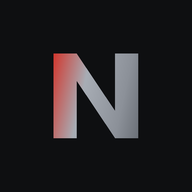
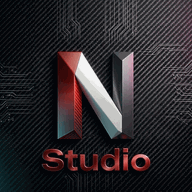
Gerçek Nizam Soft logosu (v0.2.1)
- Geçici SVG "N" çizimi kaldırıldı
- logo-n.png ve logo-full.png (şeffaf zeminli) eklendi
- Açılış: tam logo · Giriş ve yan menü: sadece N
- Telefon/masaüstü ikonları özgün kare logodan yeniden üretildi
- style.css logo ölçüleri, sw.js önbelleği ve sürüm etiketleri güncellendi

Claude-Session: https://claude.ai/code/session_01Ma4TDJqoGksF8R64DrZn4N

diff --git a/index.html b/index.html
@@ -17,29 +17,14 @@
 <link rel="preconnect" href="https://fonts.googleapis.com">
 <link rel="preconnect" href="https://fonts.gstatic.com" crossorigin>
 <link rel="stylesheet" href="https://fonts.googleapis.com/css2?family=Space+Grotesk:wght@500;600;700&family=IBM+Plex+Sans:wght@400;500;600&family=IBM+Plex+Mono:wght@400;500&display=swap">
-<link rel="stylesheet" href="style.css?v=0.2.0">
+<link rel="stylesheet" href="style.css?v=0.2.1">
 </head>
 <body>
-
-<!-- ===== Logo sembolü ===== -->
-<svg width="0" height="0" style="position:absolute" aria-hidden="true">
-  <defs>
-    <linearGradient id="ns-grad" x1="0" y1="0" x2="1" y2="1">
-      <stop offset="0" stop-color="#e5342a"></stop>
-      <stop offset=".55" stop-color="#8a8f96"></stop>
-      <stop offset="1" stop-color="#3a3f45"></stop>
-    </linearGradient>
-    <symbol id="ns-n" viewBox="0 0 32 32">
-      <path d="M5 27V5h6l10 15V5h6v22h-6L11 12v15z" fill="url(#ns-grad)"></path>
-    </symbol>
-  </defs>
-</svg>
 
 <!-- ===== Açılış ekranı ===== -->
 <div id="loader">
   <div class="loader-box">
-    <svg class="loader-logo" aria-hidden="true"><use href="#ns-n"></use></svg>
-    <div class="loader-name">NIZAM <span class="pipe">|</span> Studio</div>
+    <img class="loader-logo" src="logo-full.png?v=0.2.1" alt="NIZAM Studio" width="118" height="128">
     <div class="loader-sub">Nizam Soft</div>
     <div class="loader-track"><div class="loader-fill"></div></div>
     <div class="loader-msg">Hazırlanıyor…</div>
@@ -50,7 +35,7 @@
 <!-- ===== Giriş ekranı ===== -->
 <div id="login" class="hidden">
   <form class="login-card" id="login-form" autocomplete="on">
-    <svg class="login-logo" aria-hidden="true"><use href="#ns-n"></use></svg>
+    <img class="login-logo" src="logo-n.png?v=0.2.1" alt="" width="57" height="66">
     <h1>NIZAM <span class="pipe">|</span> Studio</h1>
     <p class="login-sub">Nizam Soft</p>
 
@@ -75,7 +60,7 @@
 
   <aside id="sidebar">
     <div class="brand">
-      <svg class="brand-logo" aria-hidden="true"><use href="#ns-n"></use></svg>
+      <img class="brand-logo" src="logo-n.png?v=0.2.1" alt="" width="24" height="28">
       <div class="brand-text">
         <div class="brand-name">NIZAM <span class="pipe">|</span> Studio</div>
         <div class="brand-sub">Nizam Soft</div>
@@ -164,8 +149,8 @@
 <div id="toast" class="hidden"></div>
 
 <script src="vendor/supabase.js?v=2.112.3"></script>
-<script src="config.js?v=0.2.0"></script>
-<script src="auth.js?v=0.2.0"></script>
-<script src="app.js?v=0.2.0"></script>
+<script src="config.js?v=0.2.1"></script>
+<script src="auth.js?v=0.2.1"></script>
+<script src="app.js?v=0.2.1"></script>
 </body>
 </html>

diff --git a/style.css b/style.css
@@ -92,8 +92,8 @@ button { font-family: inherit; color: inherit; }
 .loader-box { display: flex; flex-direction: column; align-items: center; text-align: center; padding: 24px; }
 
 .loader-logo {
-  width: 84px; height: 84px;
-  filter: drop-shadow(0 16px 34px rgba(229,52,42,.20));
+  width: auto; height: clamp(112px, 26vw, 136px);
+  filter: drop-shadow(0 18px 38px rgba(229,52,42,.22));
   animation: riseIn .75s var(--ease) both, float 5s ease-in-out 1s infinite;
 }
 .loader-name {
@@ -101,7 +101,7 @@ button { font-family: inherit; color: inherit; }
   animation: riseIn .75s var(--ease) .10s both;
 }
 .loader-sub {
-  margin-top: 7px; font-size: 10px; letter-spacing: 3.4px; text-transform: uppercase;
+  margin-top: 20px; font-size: 10px; letter-spacing: 3.4px; text-transform: uppercase;
   color: var(--ink-dim); font-weight: 600;
   animation: riseIn .75s var(--ease) .18s both;
 }
@@ -152,7 +152,10 @@ button { font-family: inherit; color: inherit; }
   box-shadow: 0 24px 60px -20px rgba(0,0,0,.7);
   animation: riseIn .5s var(--ease) both;
 }
-.login-logo { width: 52px; height: 52px; align-self: center; }
+.login-logo {
+  width: auto; height: 66px; align-self: center;
+  filter: drop-shadow(0 10px 22px rgba(229,52,42,.18));
+}
 .login-card h1 { margin-top: 16px; text-align: center; font-size: 20px; font-weight: 600; }
 .login-sub {
   margin: 6px 0 26px; text-align: center; font-size: 9.5px;
@@ -226,7 +229,7 @@ button { font-family: inherit; color: inherit; }
 }
 
 .brand { display: flex; align-items: center; gap: 10px; padding: 4px 8px 22px; }
-.brand-logo { width: 26px; height: 26px; flex-shrink: 0; }
+.brand-logo { width: auto; height: 28px; flex-shrink: 0; }
 .brand-text { display: flex; flex-direction: column; gap: 1px; min-width: 0; }
 .brand-name { font-size: 14px; font-weight: 700; letter-spacing: .2px; white-space: nowrap; }
 .brand-sub { font-size: 9px; letter-spacing: 2.2px; text-transform: uppercase; color: var(--ink-dim); font-weight: 600; }

diff --git a/sw.js b/sw.js
@@ -2,11 +2,12 @@
    Ağ öncelikli: geliştirme sırasında eski dosya takılıp kalmaz.
    Ağ yoksa önbellekten döner. */
 
-const CACHE = 'nizam-studio-v0.2.0';
+const CACHE = 'nizam-studio-v0.2.1';
 const SHELL = [
   './', './index.html', './style.css', './app.js', './config.js', './auth.js',
   './vendor/supabase.js',
-  './manifest.webmanifest', './icon-192.png', './icon-512.png'
+  './manifest.webmanifest', './icon-192.png', './icon-512.png',
+  './logo-n.png', './logo-full.png'
 ];
 
 self.addEventListener('install', e => {

diff --git a/config.js b/config.js
@@ -7,7 +7,7 @@ const APP = {
   name:     'NIZAM | Studio',
   short:    'NIZAM Studio',
   owner:    'Nizam Soft',
-  version:  'v0.2.0',
+  version:  'v0.2.1',
   build:    '2026-08-20',
   stage:    'Adım 1 — Giriş',
 };

diff --git a/CHANGELOG.md b/CHANGELOG.md
@@ -1,5 +1,14 @@
 # Değişiklik Günlüğü
 
+## v0.2.1 — 20 Ağustos 2026
+**Gerçek logo**
+
+- Nizam Soft logosu uygulamaya geçti, geçici SVG çizim kaldırıldı
+- Açılış ekranı: tam logo (N + Studio)
+- Giriş ve yan menü: sadece N — küçük boyutta net kalsın diye
+- Telefon ve masaüstü ikonları özgün kare logodan üretildi
+- Logolar repoya gömüldü, çevrimdışı da görünüyor
+
 ## v0.2.0 — 20 Ağustos 2026
 **Adım 1 · Supabase ve Giriş**
 

diff --git a/README.md b/README.md
@@ -31,7 +31,7 @@ python3 -m http.server 8080
 | Aşama | İçerik | Durum |
 |---|---|---|
 | Adım 0 | İskelet, tema, açılış, menü | ✅ |
-| Adım 1 | Supabase kurulumu ve giriş | — |
+| Adım 1 | Supabase kurulumu ve giriş | ✅ |
 | Adım 2 | Projeler, modül ve sayfa ağacı | — |
 | Adım 3 | Görevler, durumlar, atama | — |
 | Adım 4 | Prompt motoru ve kimlik dosyası | — |
